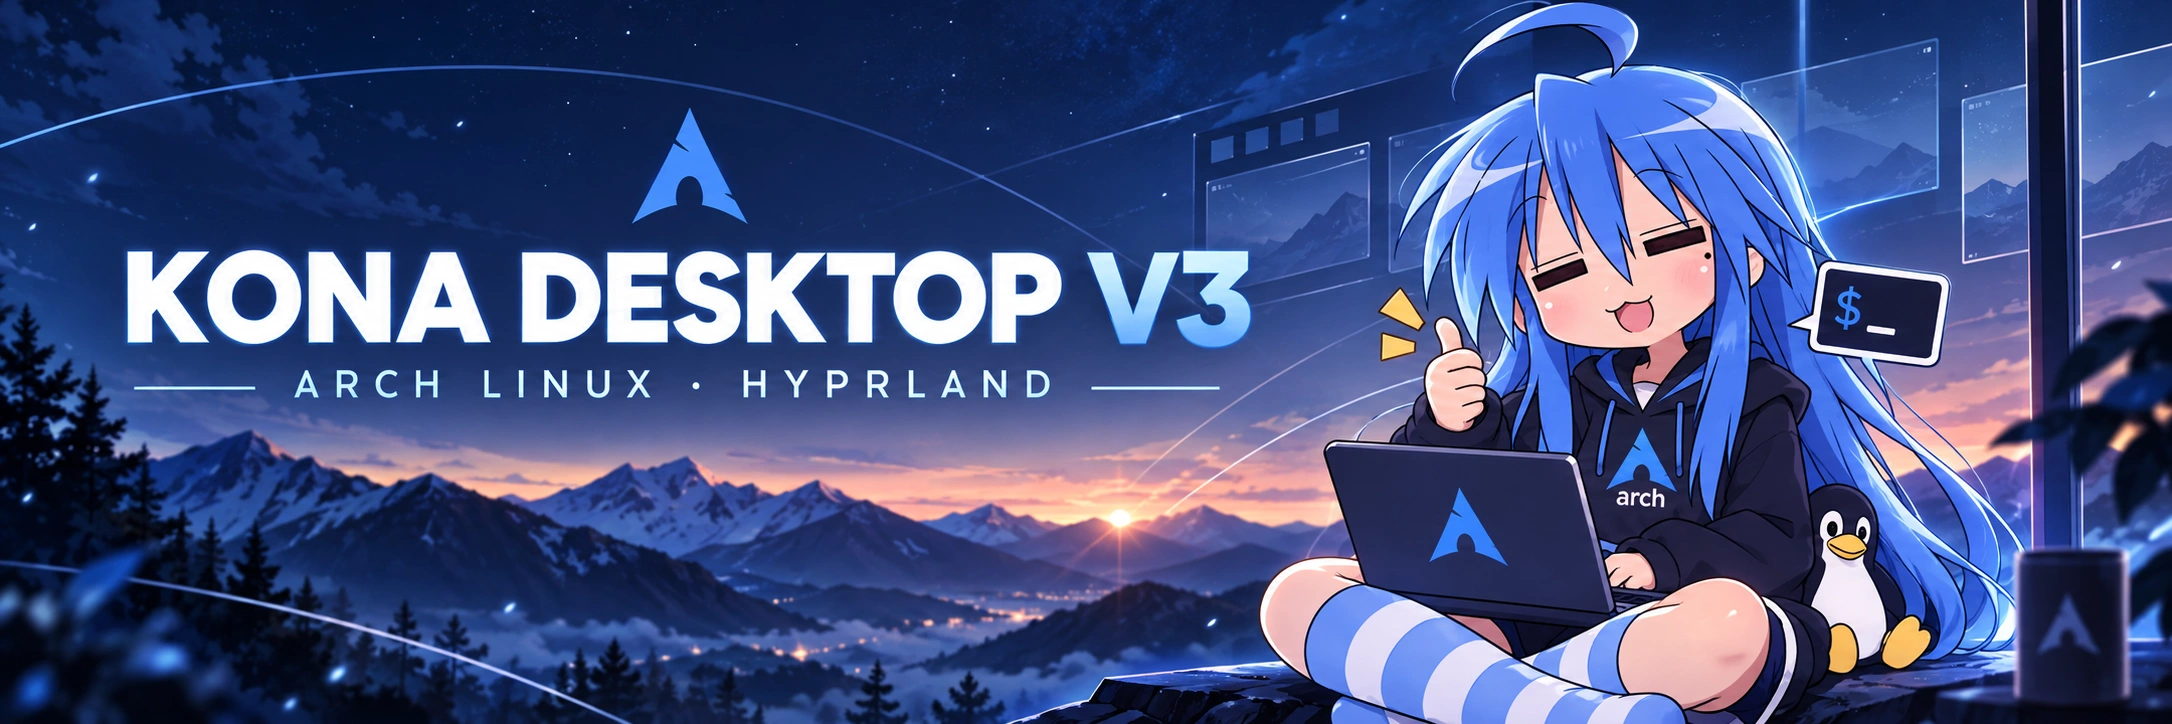
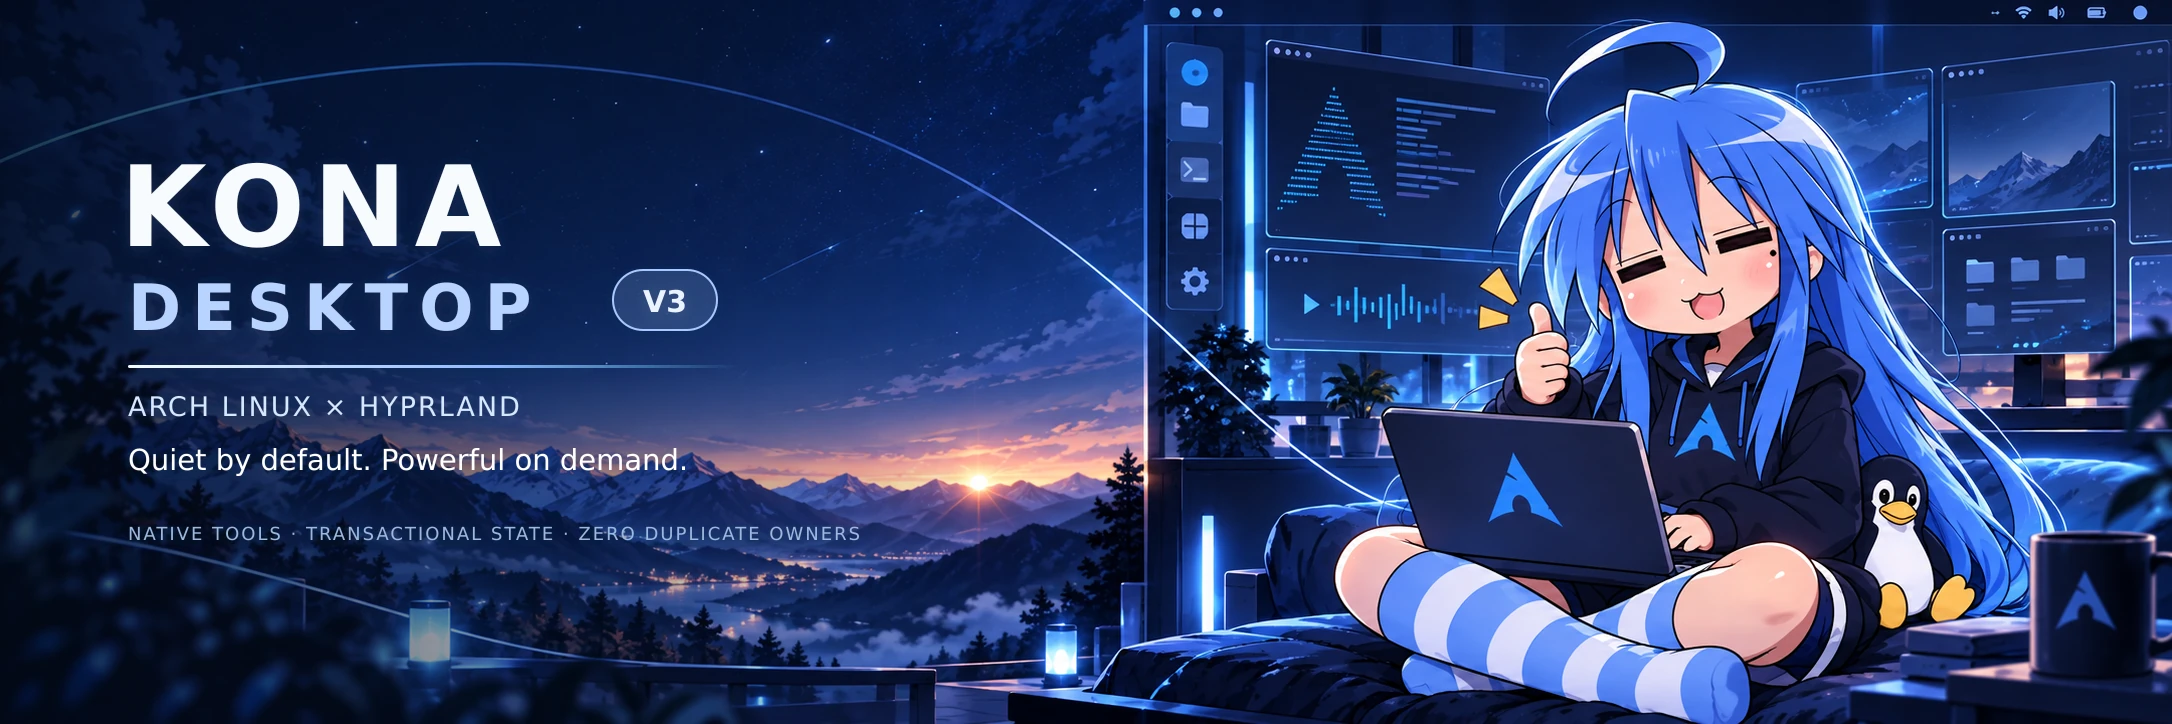
docs: rebuild Kona V3 showcase

diff --git a/README.md b/README.md
@@ -2,130 +2,201 @@
 
 <img src="showcase/assets/v3/kona-v3-banner.webp" alt="Kona Desktop V3 — Arch Linux and Hyprland" width="100%">
 
-# KONA DESKTOP V3
+# Kona Desktop V3
 
-**A fast, characterful Arch Linux + Hyprland workstation.**<br>
-Native Linux tools. Real system state. One coherent Konata-inspired visual language.
+**Konata energy. Arch discipline.**<br>
+A polished Hyprland workstation built from real Linux tools, explicit state owners and one coherent pastel-blue visual language.
 
 [![Arch Linux](https://img.shields.io/badge/Arch_Linux-1793D1?style=for-the-badge&logo=archlinux&logoColor=white)](https://archlinux.org/)
-[![Hyprland](https://img.shields.io/badge/Hyprland-58E1FF?style=for-the-badge&logo=wayland&logoColor=082032)](https://hypr.land/)
-[![Wayland](https://img.shields.io/badge/Wayland-native-8EB8FF?style=for-the-badge)](https://wayland.freedesktop.org/)
+[![Hyprland](https://img.shields.io/badge/Hyprland-Wayland-58E1FF?style=for-the-badge&logo=wayland&logoColor=082032)](https://hypr.land/)
 [![Quickshell](https://img.shields.io/badge/Quickshell-QML-A9C8FF?style=for-the-badge)](https://quickshell.org/)
-[![License: MIT](https://img.shields.io/badge/code-MIT-7AA8F8?style=for-the-badge)](LICENSE)
+[![Release](https://img.shields.io/badge/status-release_candidate-8EB8FF?style=for-the-badge)](docs/CURRENT_STATUS.md)
+[![License](https://img.shields.io/badge/Kona_code-MIT-7AA8F8?style=for-the-badge)](LICENSE)
 
-![Kona V3 across three displays](showcase/assets/v3/hero-triple.webp)
+[Features](#the-desktop-at-a-glance) · [Architecture](#engineered-as-a-system) · [Shortcuts](#daily-driver-shortcuts) · [Install](#install-on-arch) · [Status](docs/CURRENT_STATUS.md)
 
-*The current `main` experience: quiet when you work, expressive when you call it forward.*
+<img src="showcase/assets/v3/feature-reel.gif" alt="Animated tour of the Kona Arch workspace, music controls, terminal, command center and lock screen" width="720">
+
+*A quiet desktop until you ask for more.*
 
 </div>
 
 > [!IMPORTANT]
-> Kona is an opinionated Hyprland configuration built on a real Arch workstation. It is not an ISO or a universal installer. Review the hardware boundary and run the dry-run before installing.
+> Kona is an opinionated configuration for a real Arch workstation. It is not an ISO or a universal installer. Read the [hardware boundary](docs/HARDWARE_PROFILE.md), inspect the package manifest and run the installer dry-run first.
 
-## See it move
+## The desktop at a glance
 
-![Kona sidebar expanding and collapsing](showcase/assets/v3/sidebar-motion.gif)
+| Shell | Workflows | System | Presentation |
+| --- | --- | --- | --- |
+| Auto-hiding left hotbar | Live app search + workspace overview | Transactional Light / Kona / Dark | Konata-inspired semantic palette |
+| Connected Waybar entrypoints | Arch workspace with Btop, Fastfetch + CAVA | PipeWire, NetworkManager + BlueZ | Shared motion + Reduced Motion |
+| Media, performance + Weather dashboard | Modern Foot/Fish/Starship terminal | Hyprlock/PAM authentication | Current-wallpaper lock continuity |
+| Notification center + OSD | Scratch terminal + command center | Profiles, scenes + recovery | Wallpaper Engine Workshop support |
 
-The left-edge Quickshell sidebar auto-hides, reveals from the hot edge, remembers its state, supports keyboard navigation, follows Reduced Motion, and adds no resident process while closed.
+### The complete surface set
 
-## What makes V3 different
+- **Navigation:** profile header, workspaces, applications, music, Weather, quick controls, desktop actions, system tools and power/session.
+- **Dashboard:** real media, performance, Weather and audio state using the credited Caelestia presentation layer.
+- **Overview:** live Hyprland workspaces and windows, application search, Alt+Tab navigation and detached app launching using pinned end-4 components.
+- **Intelligence:** optional Intelligence, Translate and Anime tabs; secrets stay in Secret Service and model-issued system tools default off.
+- **Notifications:** one persistent end-4 notification owner, real history, actions, DND, popups and a right-edge center.
+- **System menus:** audio devices, per-app volume, network, Bluetooth, clipboard, wallpaper, profiles, settings, confirmations and session actions.
+- **Capture:** full/region screenshots, annotation, region/output recording and SwayOSD feedback.
+- **Terminals:** normal and scratch Foot sessions with Fish, Starship, completions and history-based autosuggestions; Kitty stays scoped to the image-capable Arch workspace.
 
-- **Arch-first terminal workspace** — `Super + Shift + D` opens real Btop, Fastfetch and CAVA terminals on `special:arch`; closing it terminates every workspace child.
-- **Quiet primary navigation** — the retired dock is replaced by one auto-hiding sidebar for profile, workspaces, apps, music, Weather and desktop actions.
-- **System Light/Dark authority** — one transactional `kona-appearance` owner coordinates Kona, GTK, Qt, XDG portals and `prefers-color-scheme`.
-- **Real desktop backends** — SwayNC owns notifications, PipeWire/WirePlumber own audio, NetworkManager owns networking, BlueZ owns Bluetooth, and Hyprlock/PAM own authentication.
-- **Profiles and scenes** — Daily, Focus, Showcase and Gaming change policy without starting another theme daemon.
-- **Wallpaper Engine integration** — downloaded Workshop Scene and Video projects can become the Daily/Showcase default while Focus and Gaming retain static policy.
-- **Recovery by design** — atomic theme/profile transactions, installer backups, session snapshots, bounded helpers and explicit owner health checks.
+## A shell that gets out of the way
 
-## One desktop, two appearances
+<img src="showcase/assets/v3/sidebar-motion.gif" alt="Kona sidebar revealing from the left edge and collapsing" width="960">
 
-| Dark | Light |
+The left edge is Kona's primary navigation surface. It auto-hides, reveals from a hot edge, pins on demand, remembers its state and follows the shared Reduced Motion policy. Kona keeps its broad information architecture while adopting the tighter grouping and spatial motion of [Caelestia](https://github.com/caelestia-dots/shell).
+
+The top bar stays concise: workspaces, time and real system state. Search and Alt+Tab rise from the workspace overview; notifications live on the right. Each edge has one job, so the normal desktop remains calm.
+
+## Real tools, composed natively
+
+### Arch workspace
+
+![Native Arch workspace with Btop, Fastfetch and CAVA](showcase/assets/v3/arch-workspace-dark.webp)
+
+`Super + Shift + D` toggles `special:arch` with three real terminal windows:
+
+- **Btop** for live CPU, GPU, memory and storage state;
+- **Fastfetch** for a compact machine summary and an interactive shell;
+- **CAVA** for the active PipeWire output.
+
+Hyprland owns the composition. The launcher identifies every window by a deterministic class, prevents duplicates and terminates only its own children on close. Ten-cycle lifecycle validation is part of the regression suite; a closed Arch workspace leaves zero Arch-workspace processes.
+
+| Fastfetch + interactive shell | Desktop command center |
 |:---:|:---:|
-| ![Dark Kona sidebar rail](showcase/assets/v3/sidebar-rail-dark.webp) | ![Light Kona sidebar rail](showcase/assets/v3/sidebar-rail-light.webp) |
+| ![Kona Fastfetch terminal](showcase/assets/v3/terminal-dark.webp) | ![Kona desktop command center](showcase/assets/v3/command-center-dark.webp) |
 
-Light and Dark share the same geometry and semantic token contract. Menus, terminals, borders, focus states, Weather, music, Waybar, SwayNC, SwayOSD, GTK, Qt and the portal preference switch together.
+There is no QML terminal imitation and no fake telemetry. `Super + Grave` owns one scratch terminal; `Alt + Return` and `Super + Return` open the normal terminal workflow.
 
-```bash
-kona-appearance light
-kona-appearance dark
-kona-appearance toggle
-kona-appearance status
-```
-
-## Weather without a weather daemon
-
-| Light | Dark |
-|:---:|:---:|
-| ![Kona Weather in Light mode](showcase/assets/v3/weather-light.webp) | ![Kona Weather in Dark mode](showcase/assets/v3/weather-dark.webp) |
-
-The Weather surface uses an explicit location, real Open-Meteo values, authored condition icons and a bounded local cache. It fetches on demand and leaves no poller behind.
-
-## Music that stays native
+### Music
 
 | Light | Dark |
 |:---:|:---:|
 | ![Kona music popup in Light mode](showcase/assets/v3/music-light.webp) | ![Kona music popup in Dark mode](showcase/assets/v3/music-dark.webp) |
 
-The Quickshell popup reads real MPRIS metadata, controls playback, follows the PipeWire output, and starts one scoped CAVA visualizer only while the surface is open.
+The Quickshell popup reads real MPRIS metadata, controls playback and volume through the existing PipeWire/WirePlumber stack, and starts one scoped CAVA visualizer only while visible. The Caelestia media dashboard provides the larger library and device view.
 
-## Arch is one shortcut away
+### Weather
 
-![Arch workspace with Btop, Fastfetch and CAVA](showcase/assets/v3/arch-workspace-dark.webp)
+Weather now lives in the shared dashboard instead of a second floating app. An explicit Kona location and unit file feeds cached Open-Meteo data to both the sidebar summary and dashboard. Refresh is bounded and on demand; no resident weather poller or IP-location fallback is introduced.
 
-The composition is made from real terminal windows and native Hyprland tiling. No QML terminal imitation, screenshot telemetry or background manager is involved. Repeated open/close cycles preserve one instance per component and return to zero Arch-workspace children.
+### Notifications, quick settings and assistance
 
-| Fastfetch terminal | Desktop command center |
+Kona integrates the strongest parts of [end-4/dots-hyprland](https://github.com/end-4/dots-hyprland) at a pinned revision: its live overview, notification center, Intelligence/Translate/Anime surface and binding cheat sheet. Kona remains responsible for appearance, profiles, lock, wallpaper, session actions and lifecycle policy.
+
+This is deliberate reuse rather than a visual fork hidden behind a new name. Upstream code remains under its original license and is credited in [Upstream UI credits](docs/kona/UPSTREAM_UI_CREDITS.md).
+
+## Three appearances, one authority
+
+| Dark | Light |
 |:---:|:---:|
-| ![Kona Fastfetch terminal](showcase/assets/v3/terminal-dark.webp) | ![Kona desktop command center](showcase/assets/v3/command-center-dark.webp) |
+| ![Dark Kona sidebar rail](showcase/assets/v3/sidebar-rail-dark.webp) | ![Light Kona sidebar rail](showcase/assets/v3/sidebar-rail-light.webp) |
 
-Kitty uses the current semantic theme; Fish provides history-based autosuggestions and completions. `Super + Grave` owns one scratch terminal, while `Alt + Return` and `Super + Return` open the normal terminal workflow.
+`kona-appearance` is the only durable appearance owner:
 
-## Lock screen continuity
+- **Light** — frosted icy-white surfaces and the standard system Light preference.
+- **Kona** — a softer pastel-blue desktop while websites and ordinary applications remain on the system Dark preference.
+- **Dark** — the deeper midnight-blue counterpart.
 
-![Kona Hyprlock screen using the current wallpaper](showcase/assets/v3/lockscreen.webp)
+All three use the same semantic color contract and geometry. A switch renders and validates generated fragments, updates supported GTK/Qt and XDG portal preferences, reloads consumers, verifies convergence and commits atomically. Failure restores the previous state.
 
-Hyprlock uses the current Kona backdrop, the shared profile avatar and a deterministic falling-text layer. Password entry remains entirely inside Hyprlock/PAM with masked dots, checking/failure transitions and no custom authentication state.
+```bash
+kona-appearance light
+kona-appearance kona
+kona-appearance dark
+kona-appearance toggle
+kona-appearance status
+```
 
-## Architecture with one owner per boundary
+## Profiles, wallpapers and lock continuity
 
-| Boundary | Owner | Lifecycle |
+![Kona Hyprlock screen using the active wallpaper](showcase/assets/v3/lockscreen.webp)
+
+| Profile | Policy |
+| --- | --- |
+| **Daily** | Balanced effects and the selected daily wallpaper |
+| **Focus** | Static, restrained and distraction-light |
+| **Gaming** | Static wallpaper and the cleanest runtime policy |
+| **Showcase** | Explicit opt-in motion and presentation effects |
+
+The wallpaper transaction selects exactly one backend: Wallpaper Engine, Awww or Hyprpaper. Downloaded Workshop Scene and Video projects can become the Daily/Showcase default; Focus and Gaming keep their static policy. Hyprlock receives the active backdrop and shared profile avatar while PAM remains the only authentication owner.
+
+> [!WARNING]
+> Wallpaper Engine **Web** projects remain experimental on the tested Hyprland/NVIDIA stack because one validated Web project later triggered a compositor framebuffer crash. Scene and Video projects use bounded startup fallback; Web projects require explicit manual confirmation.
+
+## Engineered as a system
+
+Kona follows one rule throughout: **one authoritative owner for each mutable boundary**.
+
+```mermaid
+flowchart LR
+    U[User intent] --> H[Hyprland bindings]
+    H --> S[Kona launchers]
+    S --> Q[Transient Quickshell / Rofi surfaces]
+    S --> N[Native Linux tools]
+    A[kona-appearance] --> T[Semantic theme output]
+    T --> Q
+    T --> W[Waybar · terminals · OSD · Hyprland]
+    P[kona-profile] --> B[Exactly one wallpaper backend]
+    E[Hyprland events] --> R[Bounded state workers]
+```
+
+| Boundary | Authoritative owner | Lifecycle |
 | --- | --- | --- |
 | Session/compositor | plain Hyprland | PlasmaLogin session |
-| Primary navigation | Quickshell sidebar | on demand |
-| Appearance | `kona-appearance` + `kona-theme` | transactional commands |
-| Profiles/scenes | `kona-profile` | transactional commands |
-| Notifications | SwayNC | one packaged user service |
-| OSD | SwayOSD | one session owner |
+| Primary navigation | Kona Quickshell sidebar | one session host |
+| Appearance | `kona-appearance` + `kona-theme` | transactional, no daemon |
+| Profiles/scenes | `kona-profile` | transactional, no daemon |
+| Notifications | pinned end-4 notification service | one packaged user service |
 | Audio | PipeWire + WirePlumber | upstream services |
-| Music UI | Quickshell + MPRIS | transient |
-| Weather | `kona-weather` + Open-Meteo | cached/on demand |
+| OSD | SwayOSD | one session owner |
+| Workspace/window state | Hyprland events | debounced, no polling loop |
+| Overview and assistance | pinned end-4 QML | transient |
+| Dashboard and settings | Caelestia QML + Kona adapters | transient |
+| Weather | `kona-weather` cache + dashboard | on demand |
 | Arch workspace | Hyprland + Kitty | zero children when closed |
 | Authentication | Hyprlock + PAM | lock lifetime only |
 | Wallpaper | Wallpaper Engine adapter, Awww or Hyprpaper | exactly one backend |
 
-Read the full [architecture and ownership map](docs/ARCHITECTURE.md).
+The adapters are intentionally small. They preserve upstream backends, isolate runtime state, pin integration revisions and fail when an expected upstream contract changes instead of silently drifting. Read the full [architecture and ownership map](docs/ARCHITECTURE.md).
 
-## Everyday controls
+### Reliability built into the desktop
+
+- Atomic appearance and profile transactions with rollback.
+- Installer backups for every replaced target.
+- Canonical compositor ownership checks to avoid duplicate session services.
+- Deterministic application classes and process ancestry for transient tools.
+- Event-driven workspace/session state instead of desktop polling loops.
+- Reduced Motion shared across Hyprland and Kona surfaces.
+- Repository privacy tests and sanitized public showcase media.
+- Focused Python, shell, Lua, recovery and runtime regression suites in CI.
+
+## Daily-driver shortcuts
 
 | Shortcut | Action |
 | --- | --- |
 | Tap `Super` / hover left edge | Pin or reveal the sidebar |
-| `Super + Shift + D` | Toggle the Arch workspace |
-| `Super + Return` / `Alt + Return` | Open the Kona terminal |
-| `Super + Grave` | Toggle the scratch terminal |
-| `Super + Space` | Applications |
-| `Super + X` | Desktop command center |
-| `Super + Shift + Return` | Notifications / control center |
-| `Alt + Tab` | Window switcher |
-| `Super + V` | Clipboard |
-| `Super + W` | Workspace overview |
+| `Super + Space` / `Super + W` | Application search + workspace overview |
+| `Alt + Tab` | Live workspace and window overview |
+| `Super + Shift + Return` | Dashboard: media, performance and Weather |
+| `Super + Ctrl + Space` | Notification center |
+| `Super + A` | Intelligence, Translate and Anime |
+| `Super + F1` | Live keybinding cheat sheet |
+| `Super + Shift + D` | Arch workspace |
+| `Super + Return` / `Alt + Return` | Kona terminal |
+| `Super + Grave` | Scratch terminal |
+| `Super + V` | Clipboard history |
+| `Super + Shift + A` | Audio devices and mixer |
 | `Super + Ctrl + P` | Profile picker |
 | `Super + Shift + W` | Wallpaper picker |
 | `Super + L` | Lock |
 | `Ctrl + Alt + Delete` | Power and session |
 
-The complete map lives in [Keybinds](docs/KEYBINDS.md).
+The complete current map lives in [Keybinds](docs/KEYBINDS.md).
 
 ## Install on Arch
 
@@ -135,7 +206,7 @@ cd konata-hyprland-dotfiles
 ./install.sh --dry-run
 ```
 
-Before a real install:
+Before applying anything:
 
 1. Read [Installation](docs/INSTALL.md) and [Hardware profile](docs/HARDWARE_PROFILE.md).
 2. Adapt the checked-in connector names, modes and workspace map in `.config/hypr/hyprland.lua`.
@@ -146,29 +217,44 @@ Before a real install:
 ./install.sh
 ```
 
-The installer copies only Kona-owned paths and backs up every replaced target below `~/.local/state/kona/pre-restore-<timestamp>/`. Optional personal Flatpaks are excluded unless `--with-flatpaks` is passed.
+The installer copies only Kona-owned paths and backs up every replaced target below `~/.local/state/kona/pre-restore-<timestamp>/`. Optional personal Flatpaks stay excluded unless `--with-flatpaks` is passed.
 
-## Customize it cleanly
+## Configure without fighting generated files
 
-- Semantic source colors: `.config/kona/appearance/light.json` and `dark.json`
-- Monitor/input/window policy: `.config/hypr/hyprland.lua`
-- Profiles and scene policy: `.config/kona/profiles.json` and `.config/kona/scene-images.json`
-- Weather location: copy `.config/kona/weather.example.json` to `~/.config/kona/weather.json`
-- Generated theme output: `.config/kona/theme/current/` — do not hand-edit it
+| Intent | Source of truth |
+| --- | --- |
+| Semantic colors | `.config/kona/appearance/{light,kona,dark}.json` |
+| Monitor, input and window policy | `.config/hypr/hyprland.lua` |
+| Profiles and scenes | `.config/kona/profiles.json` + `.config/kona/scene-images.json` |
+| Weather location | `~/.config/kona/weather.json` from the checked-in example |
+| Generated theme | `.config/kona/theme/current/` — do not hand-edit |
+| Runtime state and evidence | `~/.local/state/kona/` — never copied into Git |
 
 See [Customization](docs/CUSTOMIZATION.md) and [Recovery](docs/RECOVERY.md).
 
-> [!WARNING]
-> Wallpaper Engine **Web** projects remain experimental on the tested Hyprland/NVIDIA stack because one validated Web project later triggered a compositor framebuffer crash. Scene and Video projects have bounded startup fallback; Web projects require explicit manual confirmation.
+## Release status
 
-## Release and history
+Kona V3 is a **release candidate**. The current repository has passed portable contracts, syntax/parsing, appearance propagation, Arch-workspace lifecycle, profile policy, Weather/music lifecycle, recovery and privacy checks. One fresh PlasmaLogin → Hyprland login remains the final proof for the latest startup-race fix before a stable tag. The exact evidence boundary is maintained in [Current status](docs/CURRENT_STATUS.md).
 
-V3 is the current public `main`. The pre-V3 checkpoint is preserved at [`legacy/pre-arch-first-v3-2026.09.17`](https://github.com/Denoax/konata-hyprland-dotfiles/tree/legacy/pre-arch-first-v3-2026.09.17), and the original pre-Kona desktop remains at [`legacy/pre-kona-2026.09`](https://github.com/Denoax/konata-hyprland-dotfiles/tree/legacy/pre-kona-2026.09).
-
-See [V3 release notes](docs/RELEASE_NOTES_V3.md) and [current validation status](docs/CURRENT_STATUS.md).
+The pre-V3 checkpoint is preserved at [`legacy/pre-arch-first-v3-2026.09.17`](https://github.com/Denoax/konata-hyprland-dotfiles/tree/legacy/pre-arch-first-v3-2026.09.17); the original pre-Kona desktop remains at [`legacy/pre-kona-2026.09`](https://github.com/Denoax/konata-hyprland-dotfiles/tree/legacy/pre-kona-2026.09).
 
 ## Credits and licensing
 
-Kona integrates independent upstream projects; each retains its own license. Original Kona code, configuration and documentation are available under the [MIT License](LICENSE).
+Kona integrates independent upstream projects because good engineering should be reused and credited:
 
-Konata Izumi, *Lucky Star*, character artwork, Workshop content and other third-party visual/audio assets are **not** relicensed by MIT. This is an unofficial, non-commercial fan project and is not affiliated with or endorsed by the respective rights holders, Arch Linux, Hyprland or the upstream projects. Read [Third-party notices](THIRD_PARTY_NOTICES.md).
+- [Caelestia shell](https://github.com/caelestia-dots/shell) — dashboard, media, performance, audio/session presentation and motion grammar.
+- [end-4/dots-hyprland](https://github.com/end-4/dots-hyprland) — overview/search, notifications, Intelligence/Translate/Anime and cheat sheet.
+- [rounded-polygon-qmljs](https://github.com/end-4/rounded-polygon-qmljs) — Material shape support used by the pinned end-4 overview.
+- Arch Linux, Hyprland, Quickshell, Waybar, Rofi, SwayOSD, Hyprlock, PipeWire, WirePlumber, Btop, Fastfetch, CAVA, Foot, Kitty, Fish, Starship, Awww and Hyprpaper.
+
+Each upstream component keeps its own copyright and license. Original Kona code, configuration and documentation are available under the [MIT License](LICENSE).
+
+Konata Izumi, *Lucky Star*, character artwork, Workshop content and other third-party visual/audio assets are **not** relicensed by MIT. This is an unofficial, non-commercial fan project and is not affiliated with or endorsed by the respective rights holders, Arch Linux, Hyprland or the upstream projects. Read [Third-party notices](THIRD_PARTY_NOTICES.md) and [Upstream UI credits](docs/kona/UPSTREAM_UI_CREDITS.md).
+
+<div align="center">
+
+**Built for a real workstation. Styled for Konata. Maintained like software.**
+
+`Arch Linux` · `Hyprland` · `Wayland` · `Kona blue`
+
+</div>
